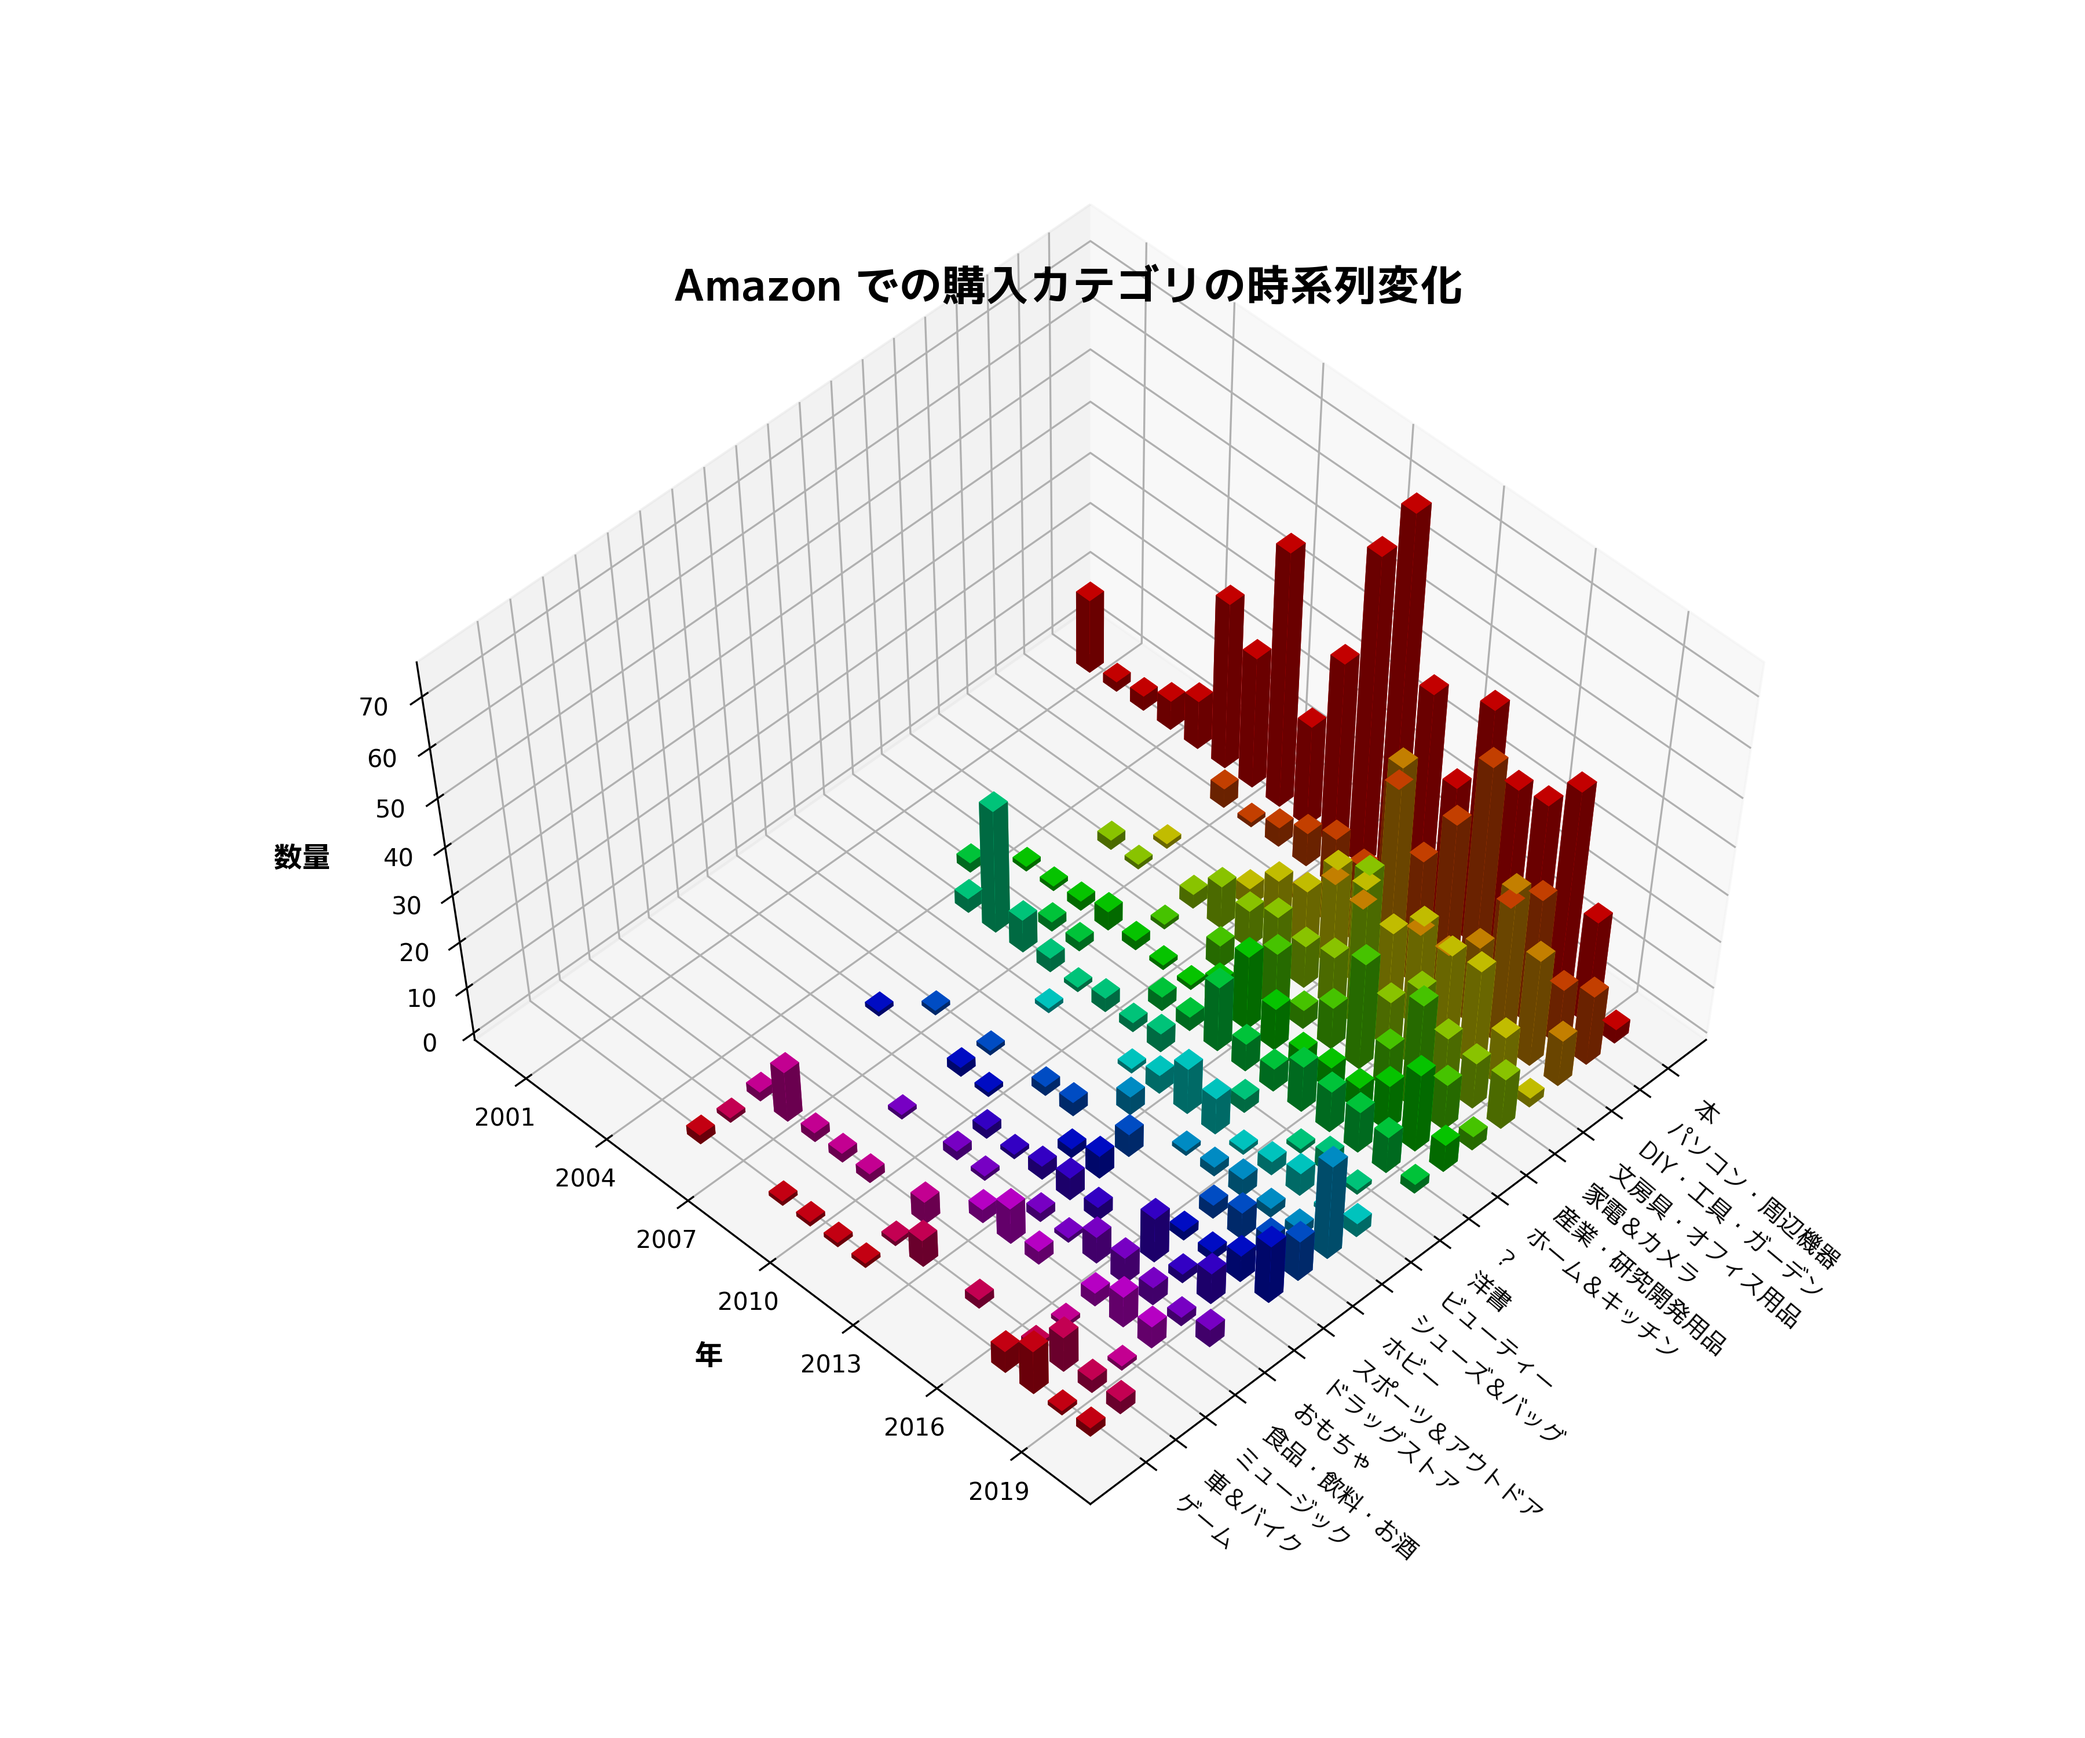
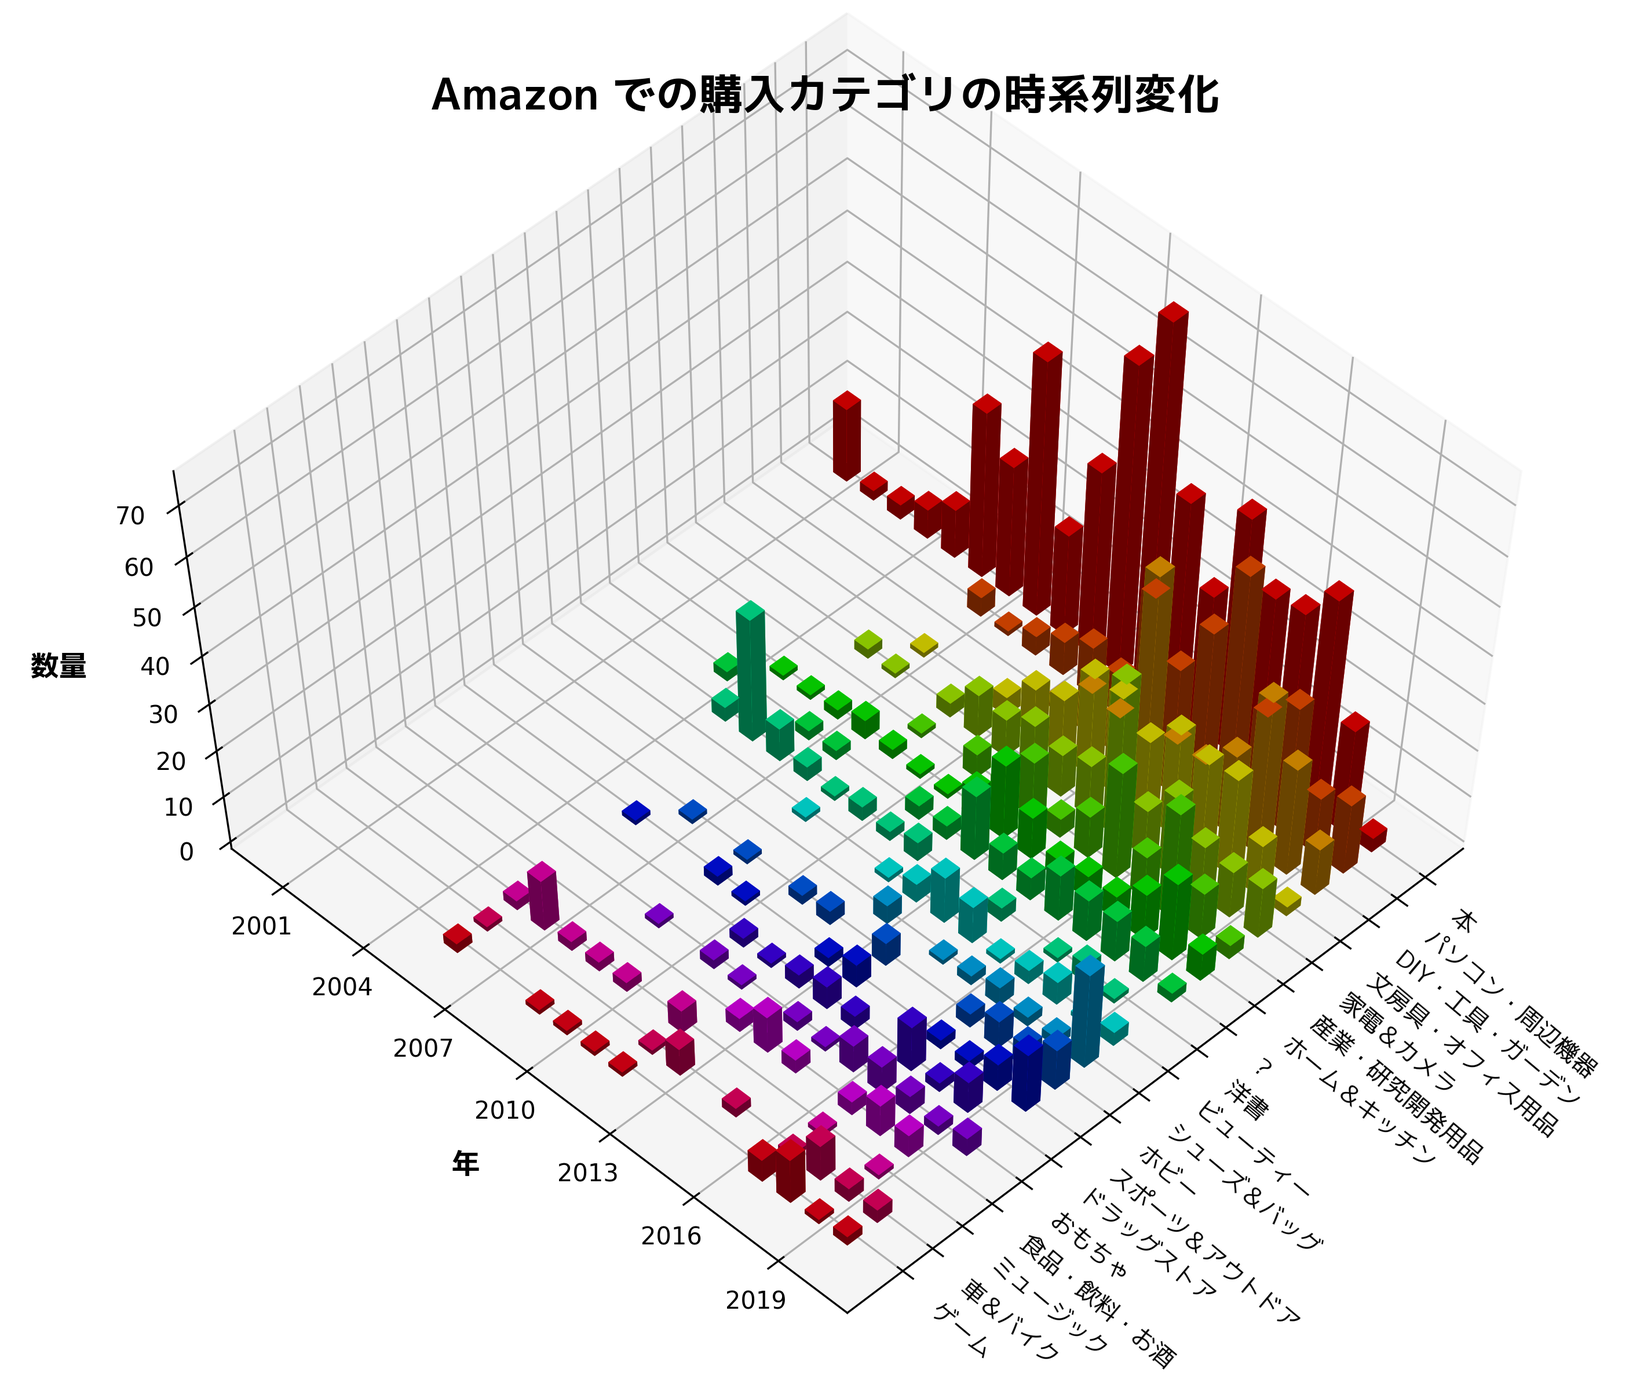
fix: 画像の余白をなるべく削除

diff --git a/amazgraph.py b/amazgraph.py
@@ -225,7 +225,7 @@ def create_graph_impl(
     if func is not None:
         func(plt, ax, font_regular)
 
-    plt.savefig(file_path)
+    plt.savefig(file_path, bbox_inches='tight')
 
 
 def create_by_year_price_hist_graph(file_path, item_list, year_list):
